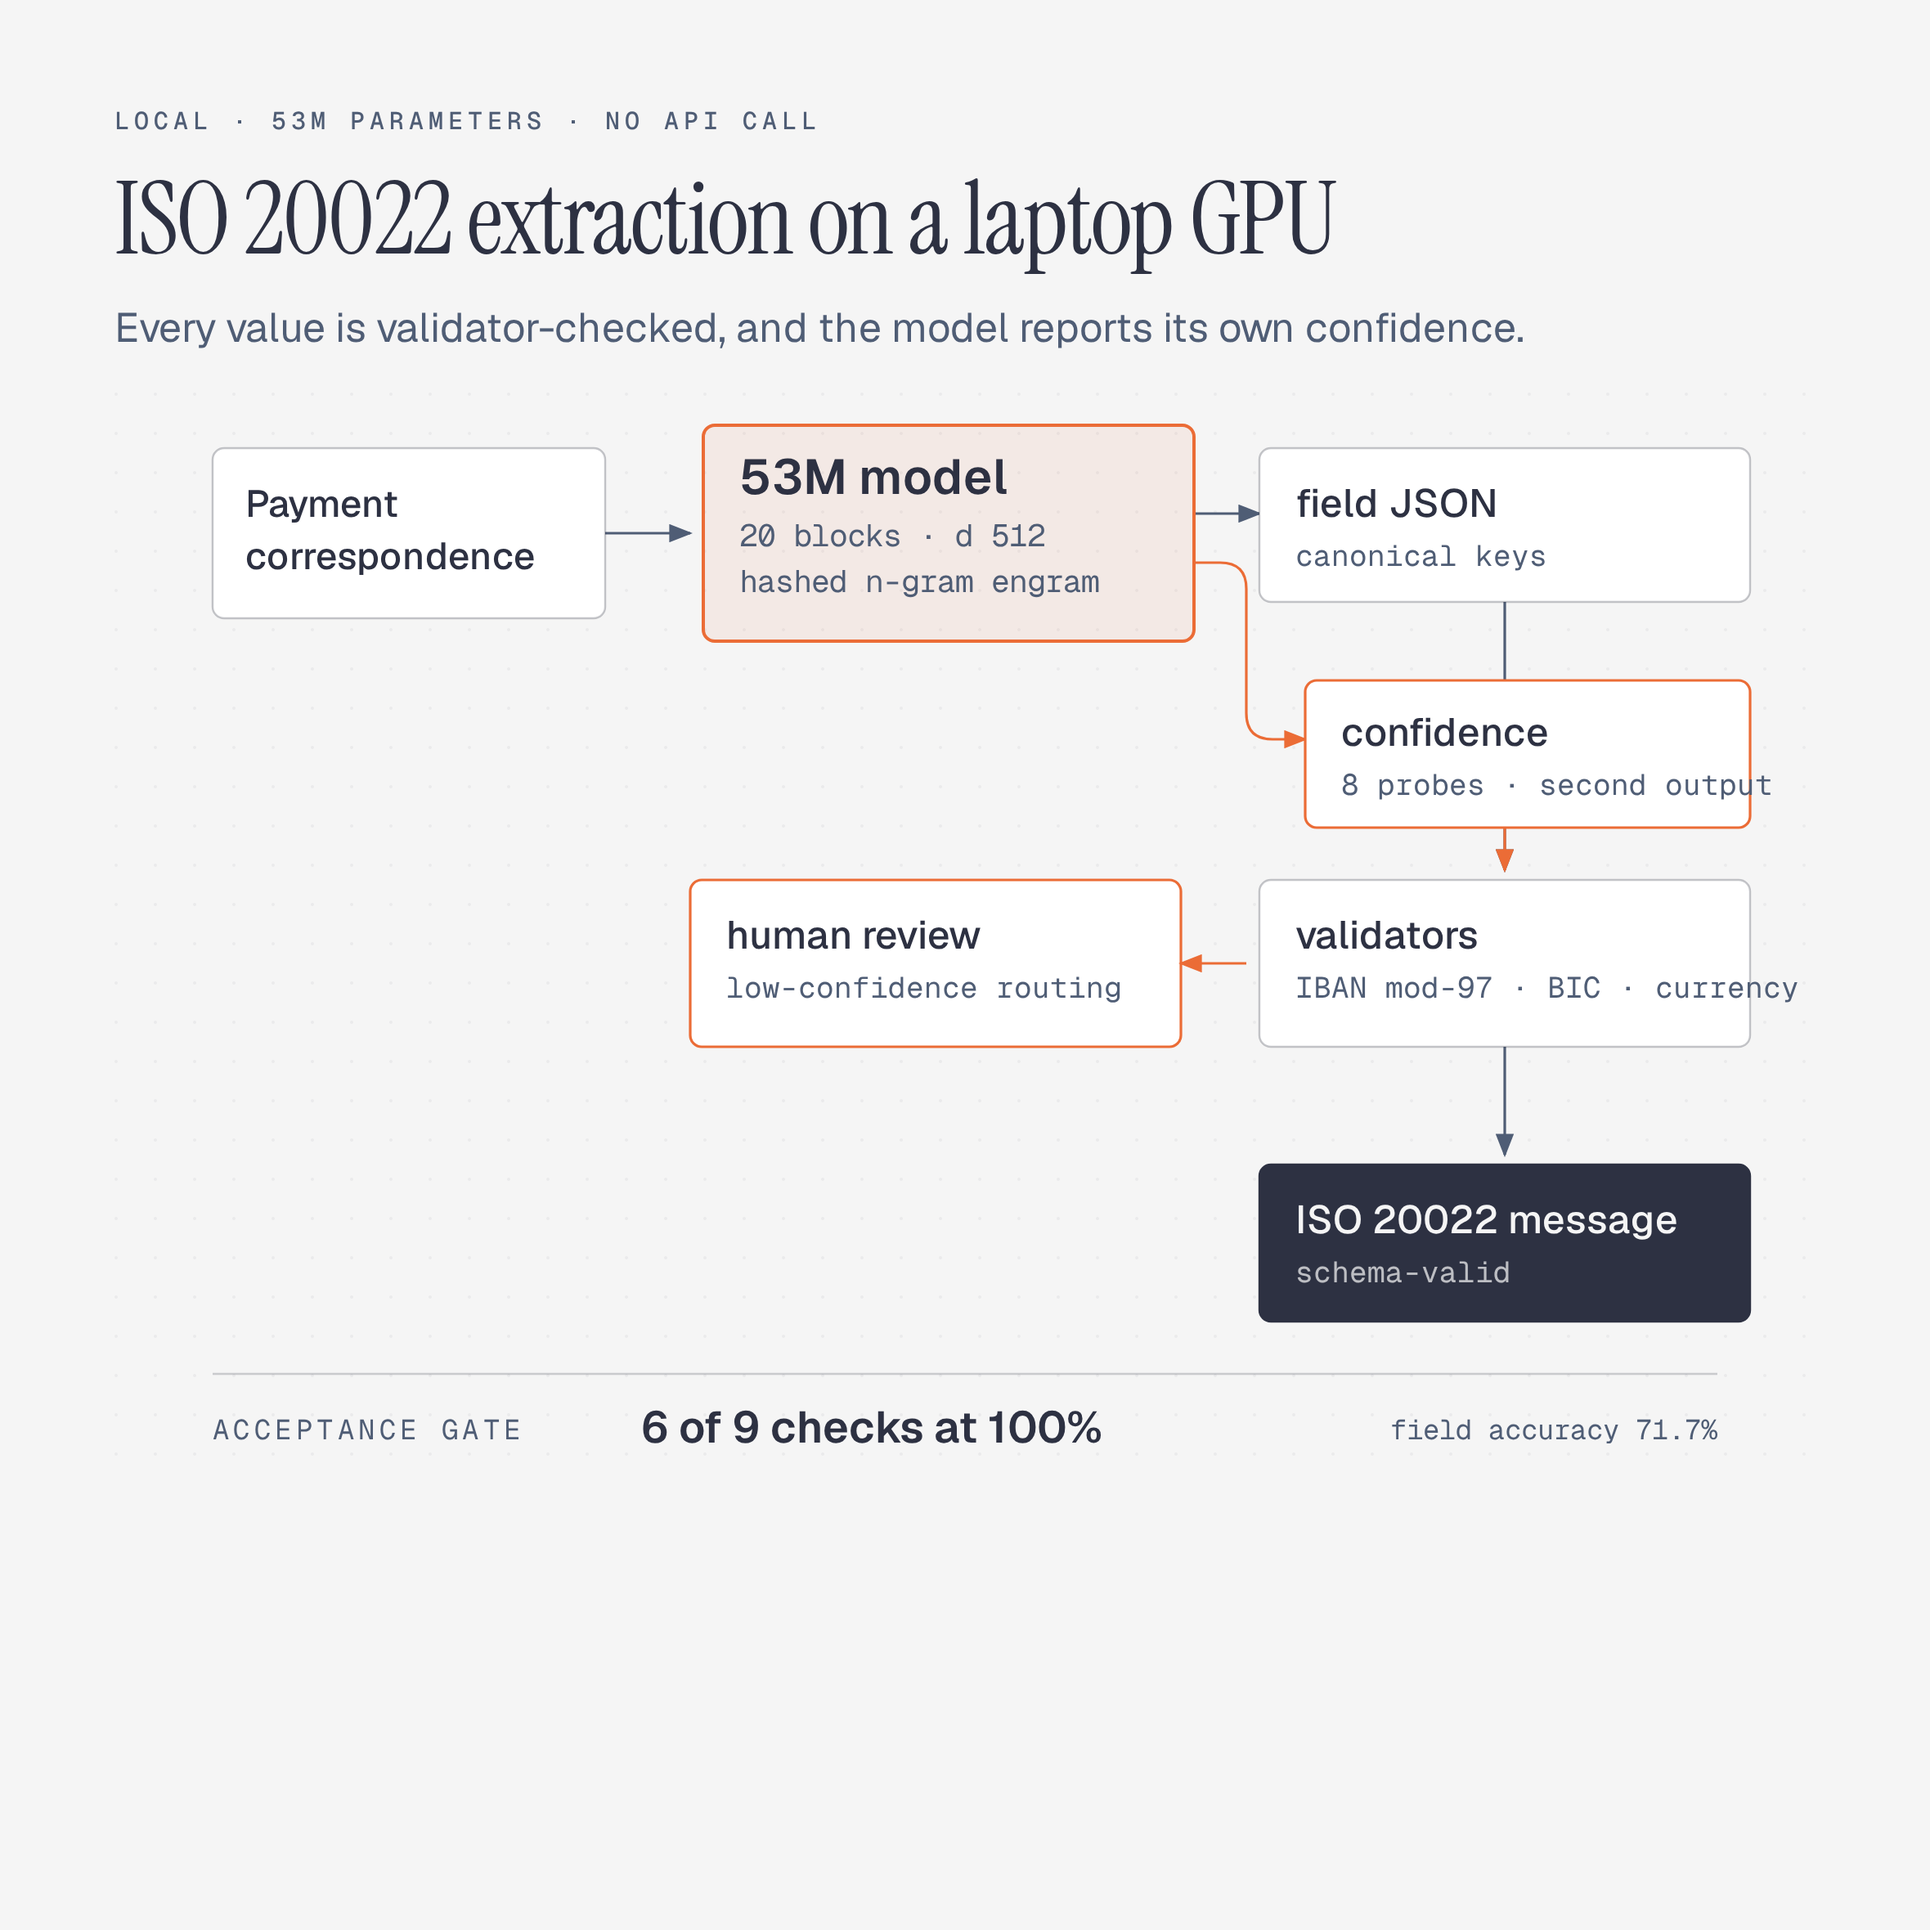
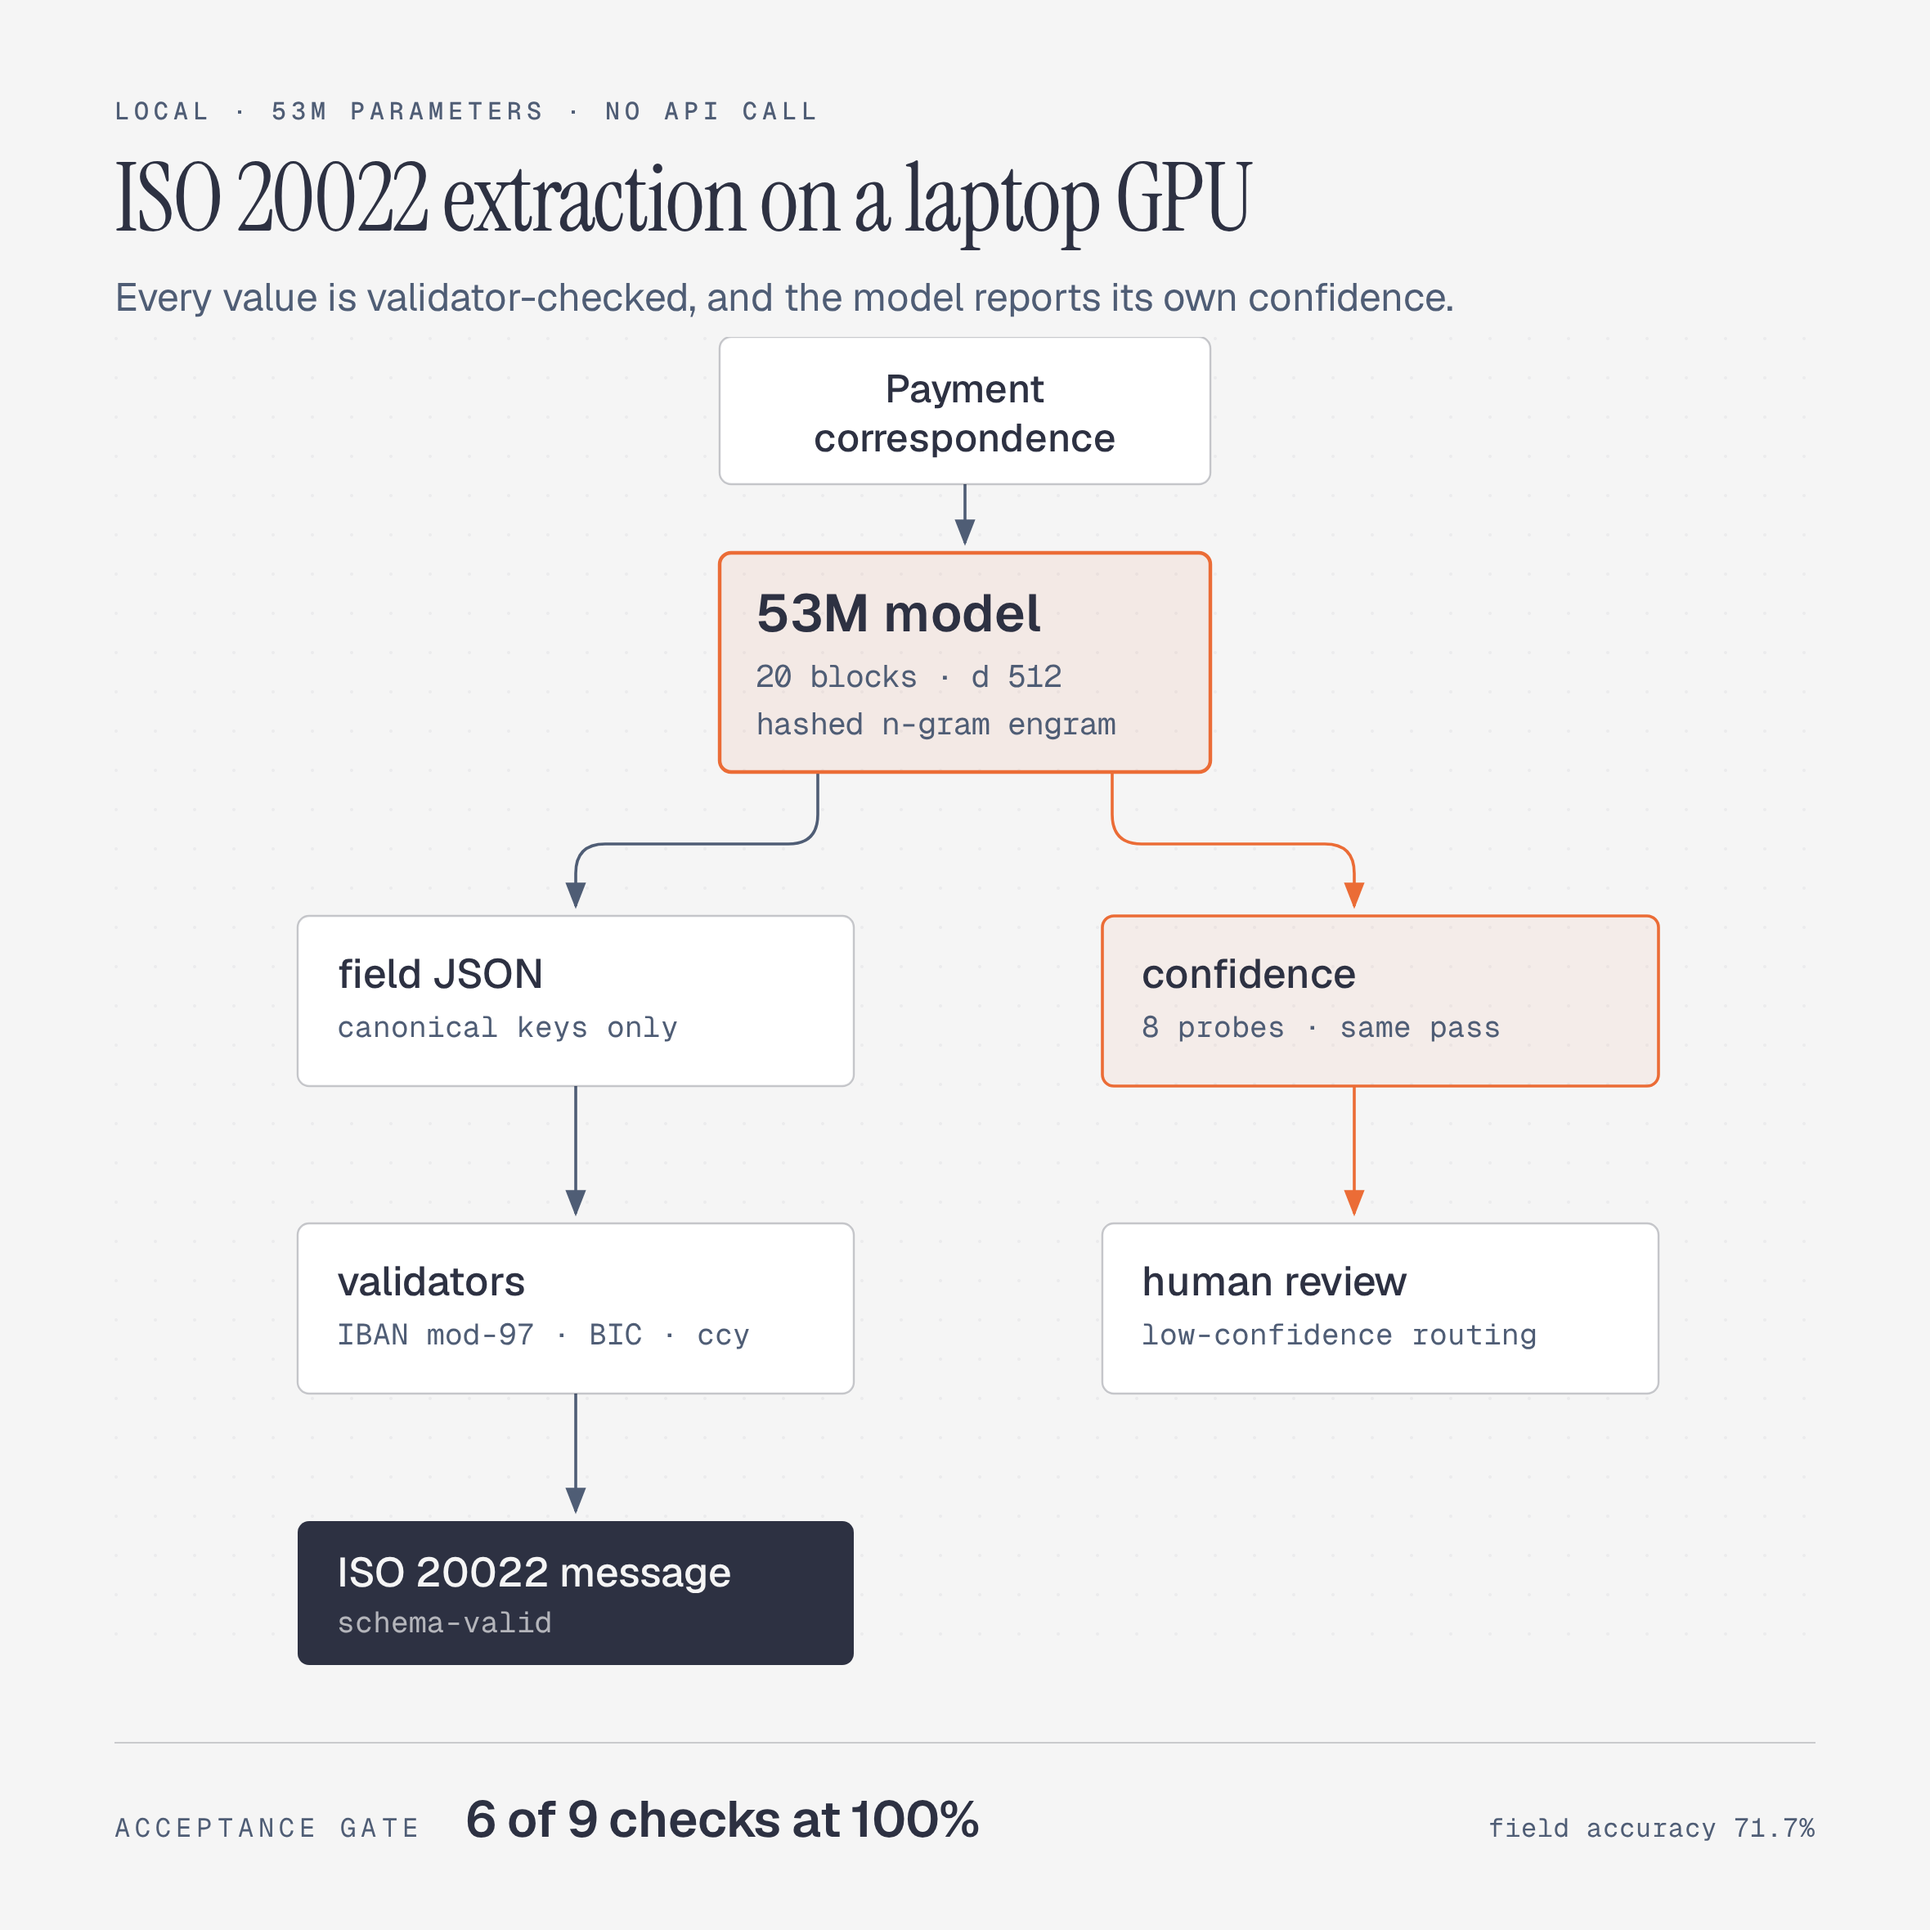
LinkedIn post and sharing card
Post holds to the platform module's hard constraints: zero em-dashes,
zero hashtags in body, zero emoji, 150-250 words, scorer 11.1 against a
threshold of 20.

Card built with diagram-design on its editorial skin (white-smoke paper,
jet-black ink, atomic-tangerine accent at two focal nodes). Renders
2360x2360 from a single self-contained HTML file that passes the skill's
own self-check.

diff --git a/docs/linkedin-post.md b/docs/linkedin-post.md
@@ -1,0 +1,23 @@
+The training log said 100% recall. The checkpoint it wrote produced loops.
+
+Both were true. All 214 tensors round-tripped byte for byte. RotaryEmbedding kept its inverse frequencies in a buffer marked persistent=False, so the loader left them uninitialised.
+
+That was fault one of four. Every one made the model look better than it was, and none broke a test, because the tests checked the same assumption the metric did.
+
+I've published the whole thing: a 53M model that pulls ISO 20022 fields out of payment correspondence, trained from scratch on one laptop GPU.
+
+Six of nine acceptance checks pass at 100%: valid JSON, canonical keys, no duplicate keys, deterministic decoding, schema-valid message assembly, IBAN-to-BIC routing agreement.
+
+Field accuracy is 71.7% against a 90% target. The gate does not pass yet.
+
+The first question is why not regex. I built two competent rule engines to find out. One scores 100% on clean documents and exactly 0% on messy and hostile ones. Regex does not fail gradually.
+
+A rule engine has a coverage, not an accuracy, and its cost is one rule set per document format. Format count belongs to your customers, not your volume.
+
+One straight-through-processing point is worth $72,000 a year at 100k messages a month. That is 45x the entire hosted-versus-local difference.
+
+Honest position: the rule baseline reaches 51.7% document STP. Mine is at 0%. On this evidence, buy the rules engine.
+
+Repo and weights in the first comment.
+
+Which document format breaks your pipeline most often?
